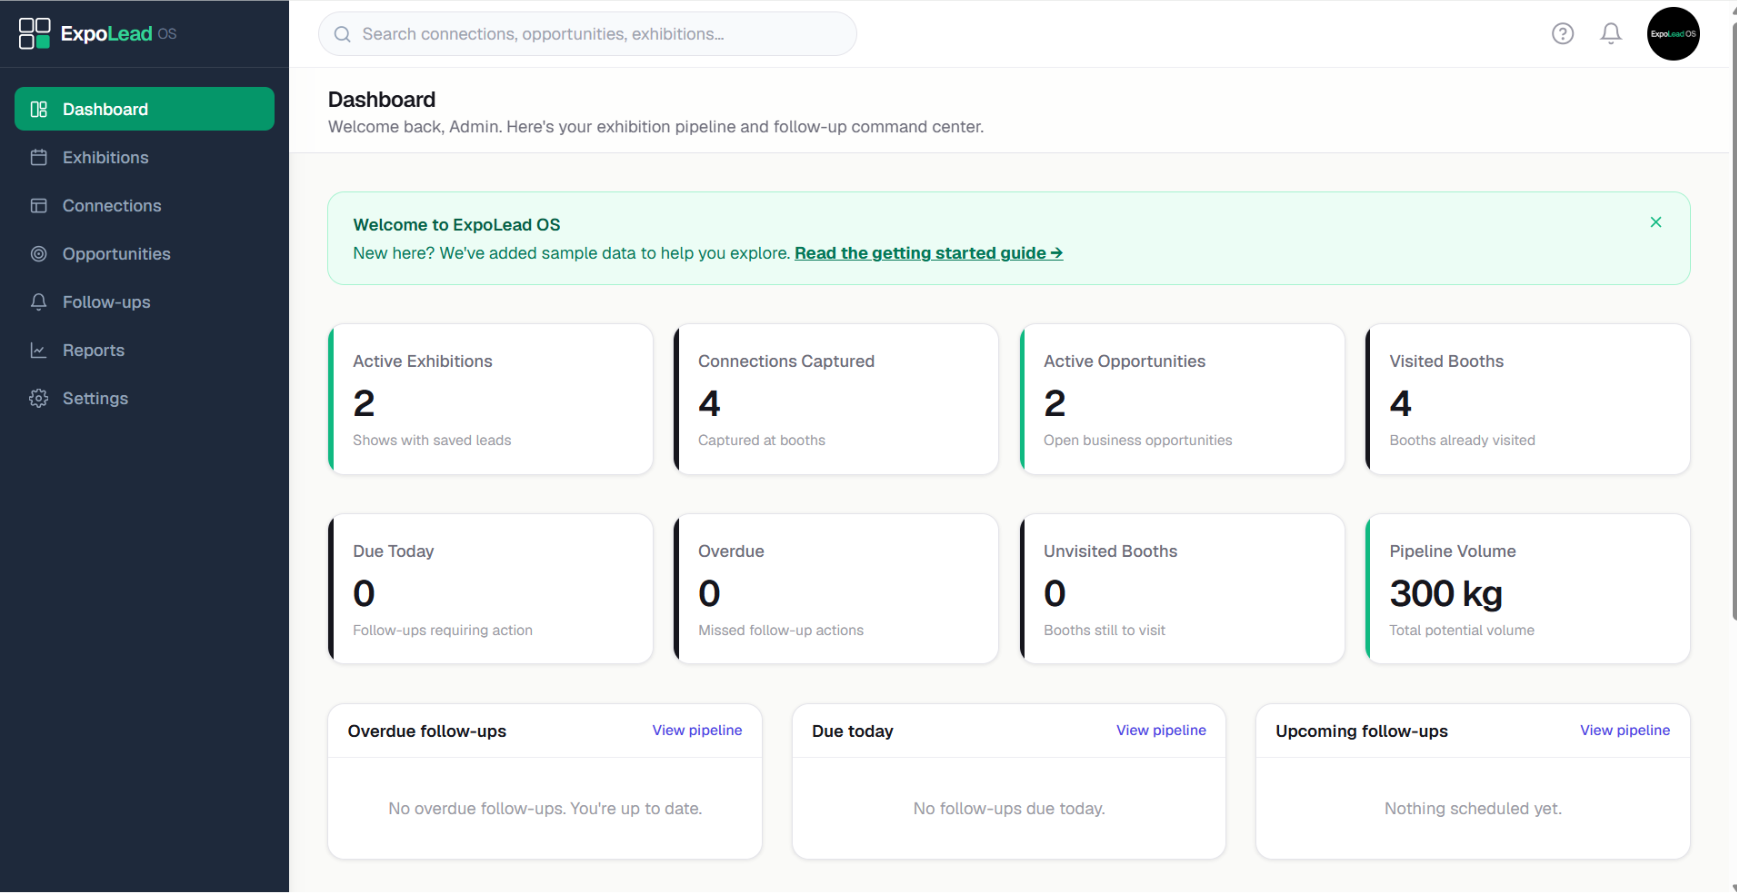
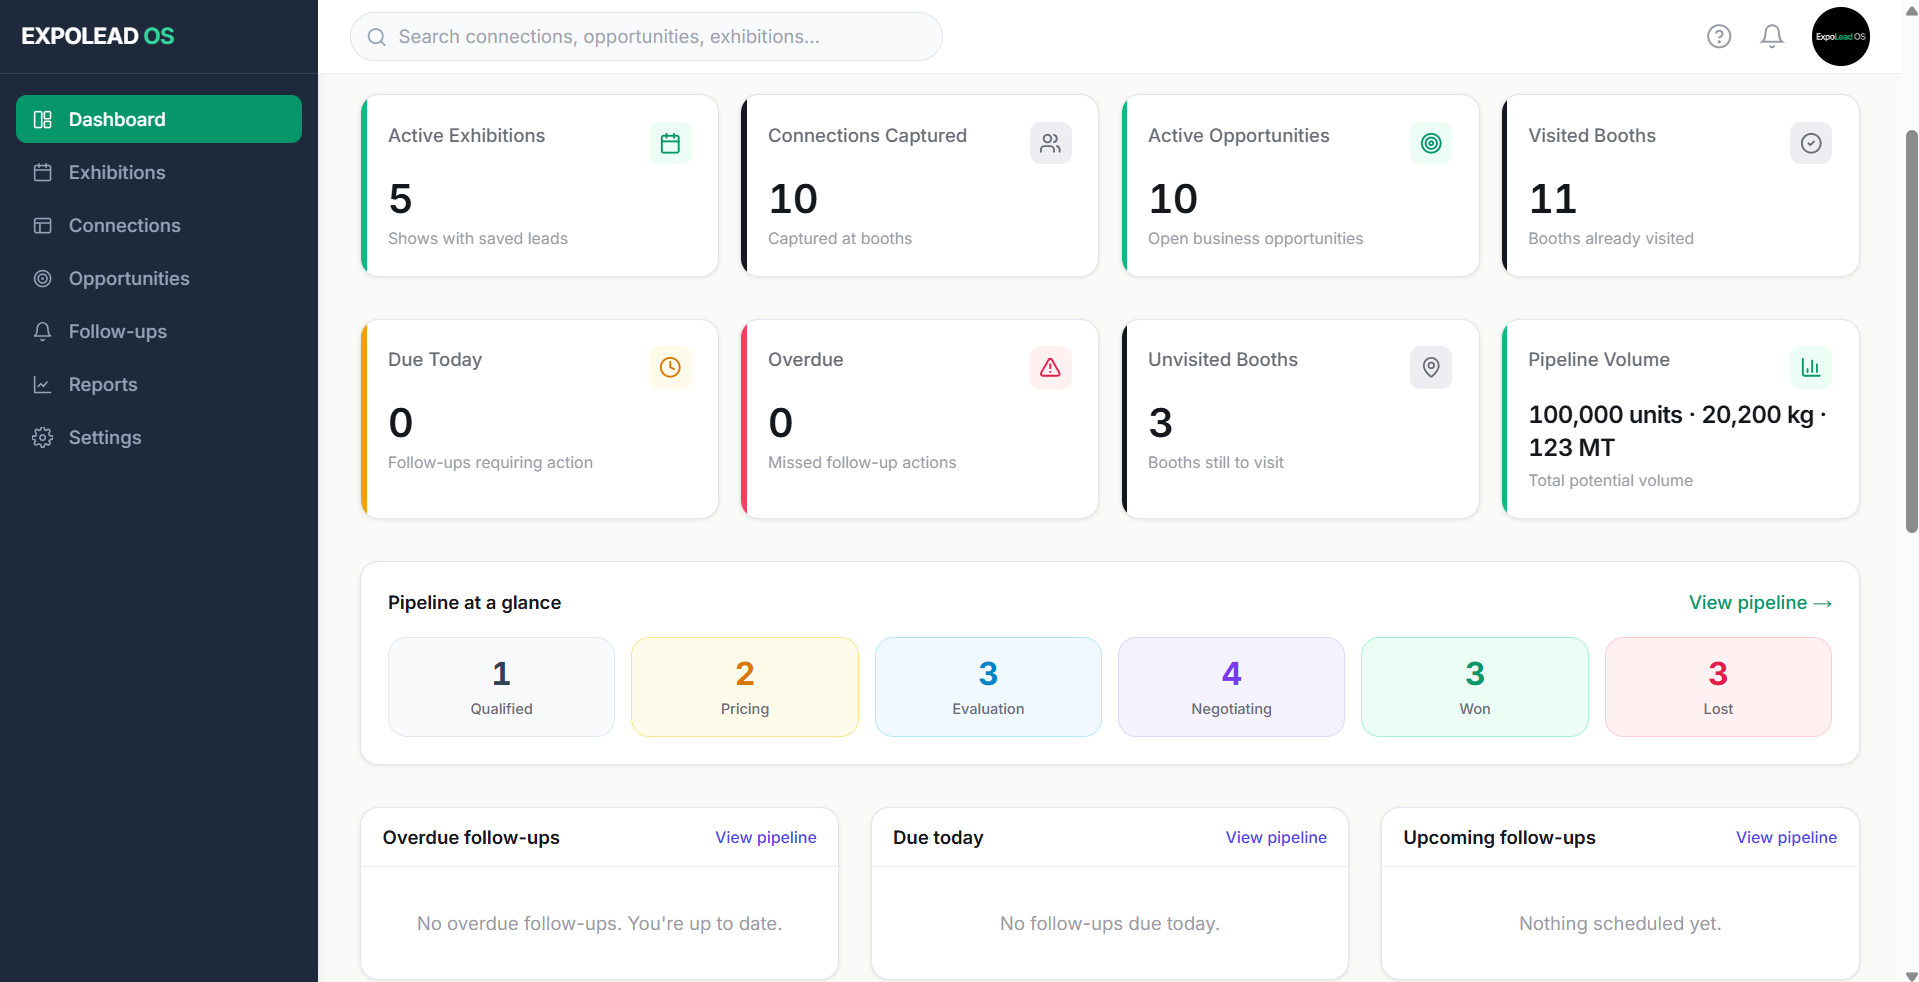
Technical SEO hardening for the expoleados.com domain
- Remove /login from the sitemap (auth page, not indexable).
- Add app/robots.ts: allow crawling, reference the sitemap, disallow the
  logged-in app routes (auth pages left crawlable so noindex is honoured).
- noindex the auth pages (/login, /reset-password, /update-password) via
  route layouts, and noindex every logged-in app page via (app)/layout.
- Give /features its own unique title/description (was inheriting the
  homepage metadata) via a route layout.
- Add self-canonicals (expoleados.com) to features, pricing, about,
  trade-shows, terms, privacy.
- Add Organization + WebSite JSON-LD on the homepage.
- Update the offline privacy-doc generator + internal docs off the old
  domain (no live impact). No old-domain references remain in the repo.
Verified: robots.txt, sitemap (login gone), noindex meta, canonicals,
JSON-LD all correct; typecheck clean.

diff --git a/generate-privacy.js b/generate-privacy.js
@@ -67,11 +67,11 @@ const doc = new Document({
         children: [new TextRun({ text: 'Privacy Notice', bold: true, size: 40, font: 'Arial' })]
       }),
 
-      p('Welcome, and thank you for your interest in ExpoLead OS ("ExpoLead OS," "we," or "us"), our website at https://expolead.tradesoil.com and all related services we provide (collectively, "ExpoLead OS Operations"). ExpoLead OS is a product of Tradesoil International, operated by Gladwin Gerald.'),
+      p('Welcome, and thank you for your interest in ExpoLead OS ("ExpoLead OS," "we," or "us"), our website at https://expoleados.com and all related services we provide (collectively, "ExpoLead OS Operations"). ExpoLead OS is a product of Tradesoil International, operated by Gladwin Gerald.'),
 
       p('This Privacy Notice describes the information we gather when you use ExpoLead OS, how we use and disclose such information, and the steps we take to protect it.'),
 
-      p('This Privacy Notice is incorporated into and subject to the ExpoLead OS Terms of Service, available at https://expolead.tradesoil.com/terms.'),
+      p('This Privacy Notice is incorporated into and subject to the ExpoLead OS Terms of Service, available at https://expoleados.com/terms.'),
 
       divider(),
 
@@ -80,7 +80,7 @@ const doc = new Document({
       p('"Personal Data" means any information relating to an identified or identifiable natural person.'),
       p('"Platform" means the ExpoLead OS application and all related services accessible after logging in.'),
       p('"User" means any individual who has created an account on ExpoLead OS.'),
-      p('"Visitor" means an individual who accesses the public-facing website at expolead.tradesoil.com without logging in.'),
+      p('"Visitor" means an individual who accesses the public-facing website at expoleados.com without logging in.'),
 
       divider(),
 
@@ -244,7 +244,7 @@ const doc = new Document({
       new Paragraph({
         spacing: { before: 40, after: 60 },
         indent: { left: 360 },
-        children: [new TextRun({ text: 'Website: https://expolead.tradesoil.com', size: 22, font: 'Arial' })]
+        children: [new TextRun({ text: 'Website: https://expoleados.com', size: 22, font: 'Arial' })]
       }),
       new Paragraph({
         spacing: { before: 40, after: 60 },

diff --git a/app/page.tsx b/app/page.tsx
@@ -451,6 +451,28 @@ export default function HomePage() {
 
   return (
     <main className="min-h-screen overflow-x-clip bg-white text-slate-950">
+      <script
+        type="application/ld+json"
+        dangerouslySetInnerHTML={{
+          __html: JSON.stringify({
+            "@context": "https://schema.org",
+            "@graph": [
+              {
+                "@type": "Organization",
+                name: "ExpoLead OS",
+                url: "https://expoleados.com",
+                logo: "https://expoleados.com/og.png",
+                sameAs: ["https://www.linkedin.com/company/expolead-os/"],
+              },
+              {
+                "@type": "WebSite",
+                name: "ExpoLead OS",
+                url: "https://expoleados.com",
+              },
+            ],
+          }),
+        }}
+      />
       <SmoothScroll />
       <SplashScreen />
       <PublicHeader labels={{ exhibitions: lang === "en" ? "Exhibitions" : "展会", pricing: t.nav.pricing, product: t.nav.product, resources: lang === "en" ? "Resources" : "资源", login: t.nav.login, trial: t.nav.trial }}>

diff --git a/app/robots.ts b/app/robots.ts
@@ -1,0 +1,31 @@
+import { MetadataRoute } from "next";
+
+/**
+ * Public marketing/content is fully crawlable. The logged-in application
+ * routes are disallowed (they redirect to /login for anyone not signed in, so
+ * there is nothing useful to crawl there). The auth pages (/login,
+ * /reset-password, /update-password) are deliberately NOT disallowed here so
+ * Google can crawl them and honour their noindex meta.
+ */
+export default function robots(): MetadataRoute.Robots {
+  return {
+    rules: {
+      userAgent: "*",
+      allow: "/",
+      disallow: [
+        "/dashboard",
+        "/suppliers",
+        "/opportunities",
+        "/follow-ups",
+        "/reports",
+        "/profile",
+        "/billing",
+        "/upgrade",
+        "/admin",
+        "/auth",
+      ],
+    },
+    sitemap: "https://expoleados.com/sitemap.xml",
+    host: "https://expoleados.com",
+  };
+}

diff --git a/app/sitemap.ts b/app/sitemap.ts
@@ -18,7 +18,6 @@ export default function sitemap(): MetadataRoute.Sitemap {
     { url: `${base}/resources`, lastModified: new Date(), changeFrequency: "weekly", priority: 0.7 },
     { url: `${base}/trade-shows`, lastModified: new Date(), changeFrequency: "weekly", priority: 0.8 },
     { url: `${base}/about`, lastModified: new Date(), changeFrequency: "monthly", priority: 0.5 },
-    { url: `${base}/login`, lastModified: new Date(), changeFrequency: "monthly", priority: 0.5 },
     { url: `${base}/privacy`, lastModified: new Date(), changeFrequency: "yearly", priority: 0.3 },
     { url: `${base}/terms`, lastModified: new Date(), changeFrequency: "yearly", priority: 0.3 },
     ...articleUrls,

diff --git a/app/features/layout.tsx b/app/features/layout.tsx
@@ -1,0 +1,13 @@
+import type { Metadata } from "next";
+
+// The features page is a client component, so its metadata lives here.
+export const metadata: Metadata = {
+  title: "Product — ExpoLead OS",
+  description:
+    "See how ExpoLead OS captures booth connections, tracks products, samples and quotations, keeps follow-ups on schedule, and shows the ROI of every exhibition.",
+  alternates: { canonical: "https://expoleados.com/features" },
+};
+
+export default function FeaturesLayout({ children }: { children: React.ReactNode }) {
+  return children;
+}

diff --git a/app/trade-shows/page.tsx b/app/trade-shows/page.tsx
@@ -9,6 +9,7 @@ export const metadata: Metadata = {
   title: "Upcoming Trade Exhibitions Directory — ExpoLead OS",
   description:
     "Browse major B2B trade exhibitions by industry — dates, venues and sectors. Food & beverage, chemicals, coatings, fertilizer, private label and more. Track the shows you attend in ExpoLead OS.",
+  alternates: { canonical: "https://expoleados.com/trade-shows" },
 };
 
 export default async function TradeShowsPage() {

diff --git a/app/(app)/layout.tsx b/app/(app)/layout.tsx
@@ -11,6 +11,11 @@ import { isSupabaseConfigured } from "@/lib/supabase/config";
 import { computeTrialStatus, TRIAL_FALLBACK, type TrialStatus } from "@/lib/trial";
 import { sendWelcomeEmail } from "@/lib/welcome-email";
 
+// Every logged-in application page is private — keep them all out of search.
+export const metadata = {
+  robots: { index: false, follow: false },
+};
+
 export default async function AppLayout({
   children,
 }: {

diff --git a/app/login/layout.tsx b/app/login/layout.tsx
@@ -1,0 +1,12 @@
+import type { Metadata } from "next";
+
+// Auth page: crawlable (not disallowed in robots) but noindex, so Google
+// drops it from the index instead of showing a login screen in results.
+export const metadata: Metadata = {
+  title: "Log in — ExpoLead OS",
+  robots: { index: false, follow: false },
+};
+
+export default function LoginLayout({ children }: { children: React.ReactNode }) {
+  return children;
+}

diff --git a/app/privacy/page.tsx b/app/privacy/page.tsx
@@ -4,6 +4,7 @@ import PublicHeader from "@/components/PublicHeader";
 export const metadata = {
   title: "Privacy Notice — ExpoLead OS",
   description: "How ExpoLead OS collects, uses and protects your personal data. We do not sell your data, use advertising cookies, or share your business records with third parties.",
+  alternates: { canonical: "https://expoleados.com/privacy" },
 };
 
 export default function PrivacyPage() {

diff --git a/app/pricing/page.tsx b/app/pricing/page.tsx
@@ -7,6 +7,7 @@ import SmoothScroll from "@/components/SmoothScroll";
 export const metadata: Metadata = {
   title: "Pricing — ExpoLead OS",
   description: "Free 14-day trial, no credit card. Paid plans from $29/month ($348/year Starter). One recovered exhibition lead pays for ExpoLead OS for years. No contracts, no sales calls.",
+  alternates: { canonical: "https://expoleados.com/pricing" },
 };
 
 const TRUST = [

diff --git a/app/terms/page.tsx b/app/terms/page.tsx
@@ -4,6 +4,7 @@ import PublicHeader from "@/components/PublicHeader";
 export const metadata = {
   title: "Terms of Service — ExpoLead OS",
   description: "Terms and conditions for using ExpoLead OS. 14-day free trial, no credit card required. Your data is yours — export it anytime. Cancel anytime.",
+  alternates: { canonical: "https://expoleados.com/terms" },
 };
 
 export default function TermsPage() {

diff --git a/app/update-password/layout.tsx b/app/update-password/layout.tsx
@@ -1,0 +1,10 @@
+import type { Metadata } from "next";
+
+export const metadata: Metadata = {
+  title: "Set new password — ExpoLead OS",
+  robots: { index: false, follow: false },
+};
+
+export default function UpdatePasswordLayout({ children }: { children: React.ReactNode }) {
+  return children;
+}
